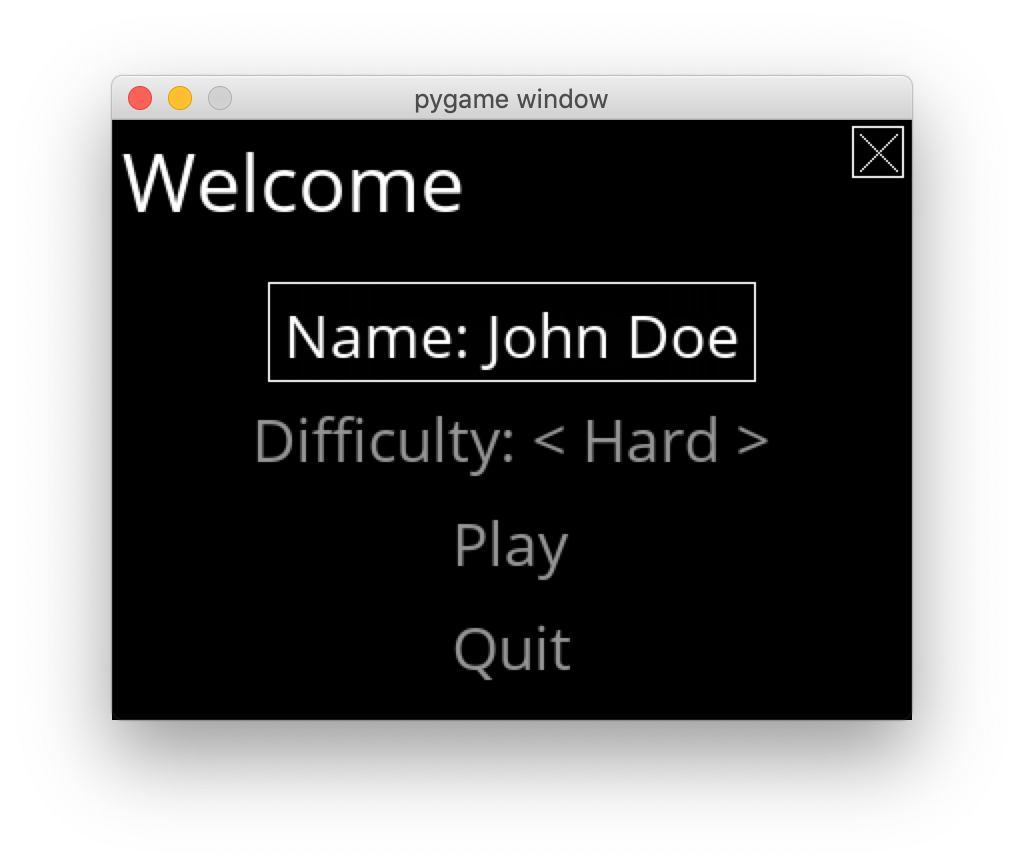
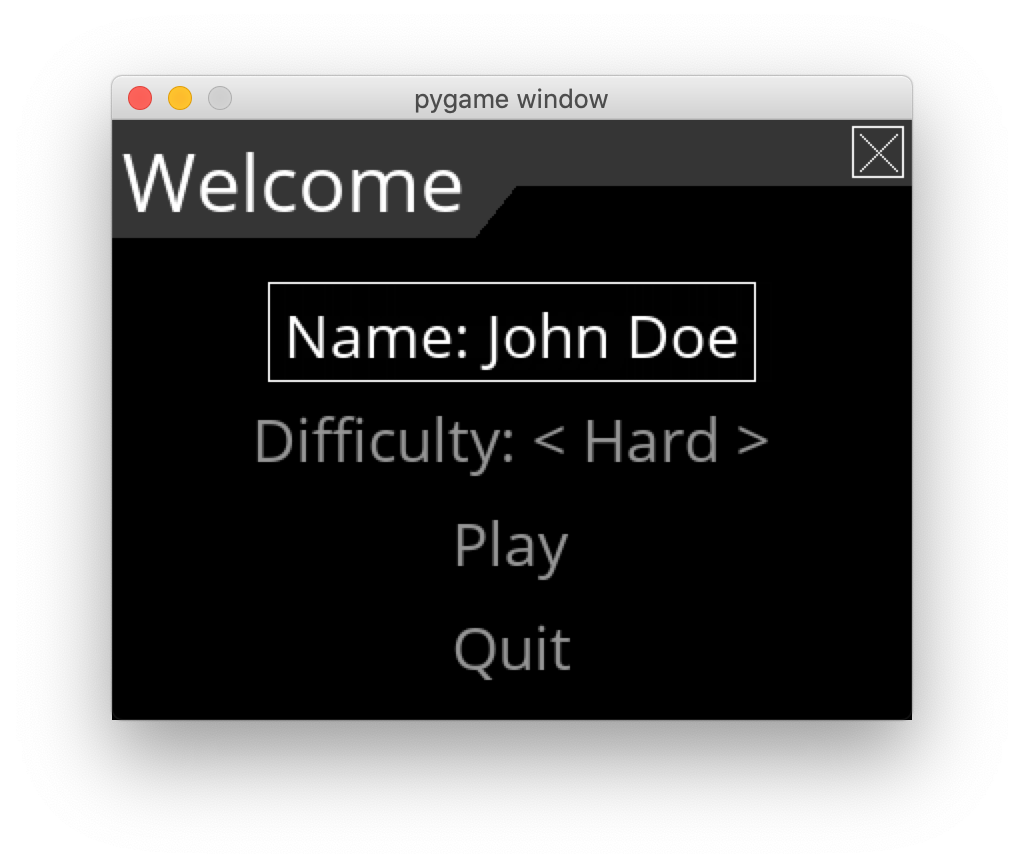
Change title background color for THEME_BLACK

Changed region(s): [[0.0938, 0.1244, 0.9062, 0.28]]

diff --git a/pygameMenu/themes.py b/pygameMenu/themes.py
@@ -46,7 +46,7 @@ class Theme(object):
 
                   - (R,G,B)
                   - (R,G,B,A)
-                  
+
               Red (R), Green (G) and Blue (B) must be numbers between 0 and 255.
               A means the alpha channel (opacity), if 0 the color is transparent, 100 means opaque.
 
@@ -270,7 +270,7 @@ THEME_DEFAULT = Theme()
 THEME_BLACK = Theme(
     background_color=(0, 0, 0),
     selection_color=(255, 255, 255),
-    title_background_color=(0, 0, 0),
+    title_background_color=(50, 50, 50),
     title_font_color=(255, 255, 255),
     widget_font_color=(150, 150, 150),
 )
